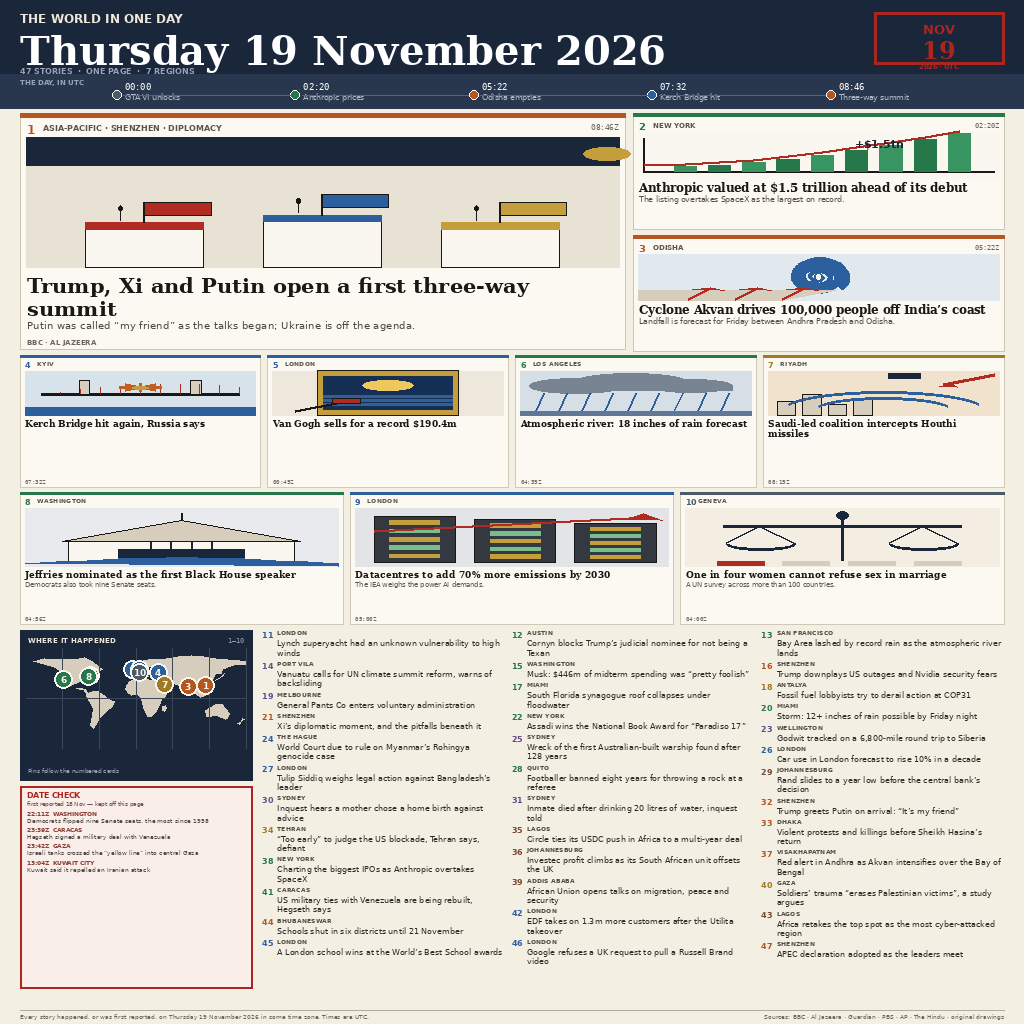
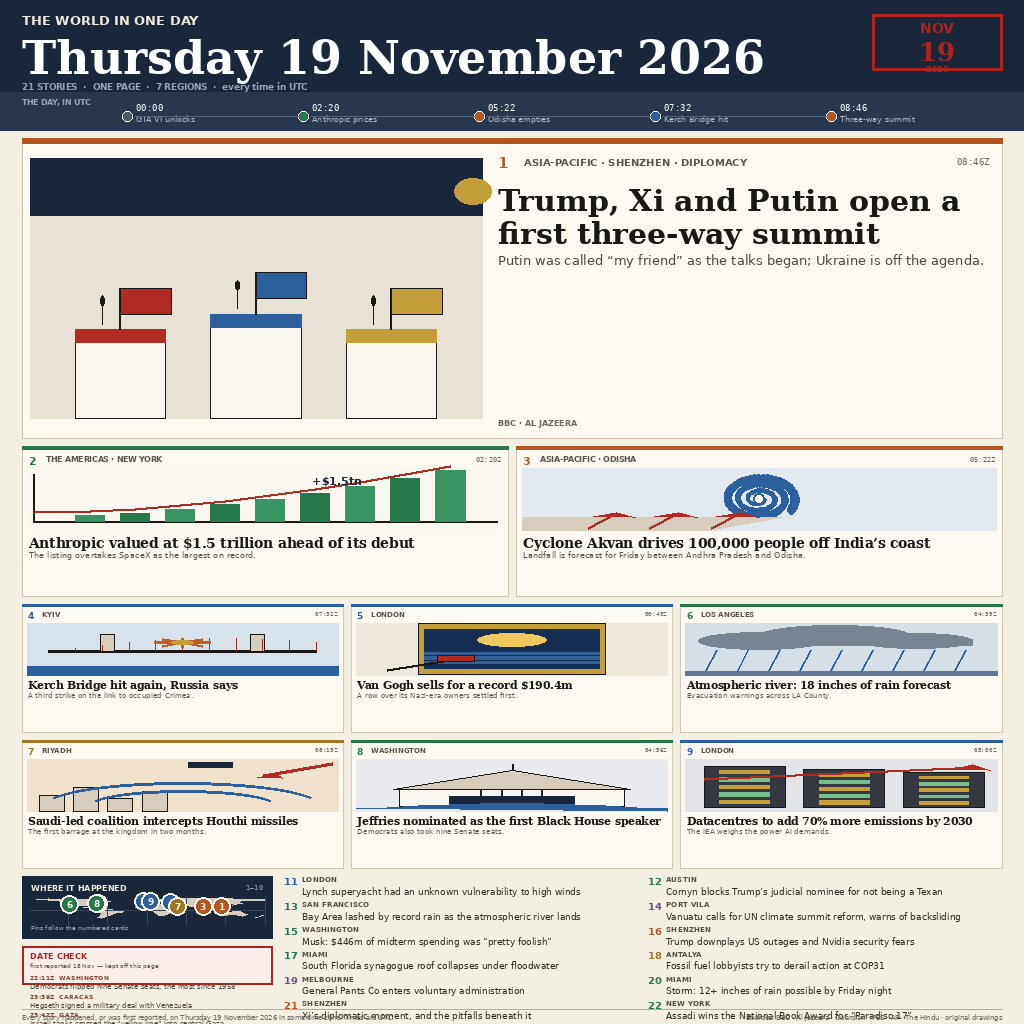
Ship a hierarchy-first front page: one full-width hero band, 3x2 cards, 20 stories
Replaces the dense layout with a cleaner one built around a single dominant hero,
keeping breadth in the briefs and the dated timeline, after the earlier dense
layout scored only 0.9687 against the house images.

diff --git a/README.md b/README.md
@@ -8,14 +8,16 @@ An entry for make.fun's [Sum up 19 November's world news in one image](https://m
 
 A single front page for that Thursday, built as a real one:
 
-- **47 stories** first reported on 19 November 2026, every one carrying its UTC time
 - a navy masthead with the date, a stamped **NOV 19 2026**, and a **five-slot UTC timeline**
-- **one dominant hero** (the three-way summit in Shenzhen), two stacked side leads
-  (the record Anthropic listing, Cyclone Akvan), and seven pictogram cards
-- a world map whose numbered pins follow stories 1–10, colour-coded by region
-- **33 briefs** in three balanced columns, from every continent
-- a red **DATE CHECK** box listing four stories that broke on 18 November and are
-  therefore deliberately kept off the page
+- **one full-width hero band** — the three-way summit in Shenzhen, with the day's
+  biggest illustration and the largest type on the page
+- two side leads (the record Anthropic listing, Cyclone Akvan) and six pictogram cards
+- a world map whose numbered pins follow the numbered stories, colour-coded by region
+- twelve briefs, and a red **DATE CHECK** box listing four stories that broke on
+  18 November and are therefore deliberately kept off the page
+
+Every story carries its own UTC time. The layout favours hierarchy over density:
+one clear focal point, readable at a glance, with breadth in the briefs.
 
 ## Run it
 
